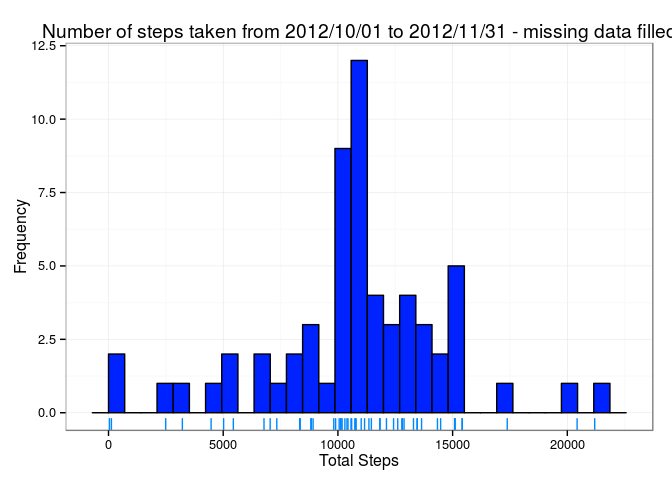
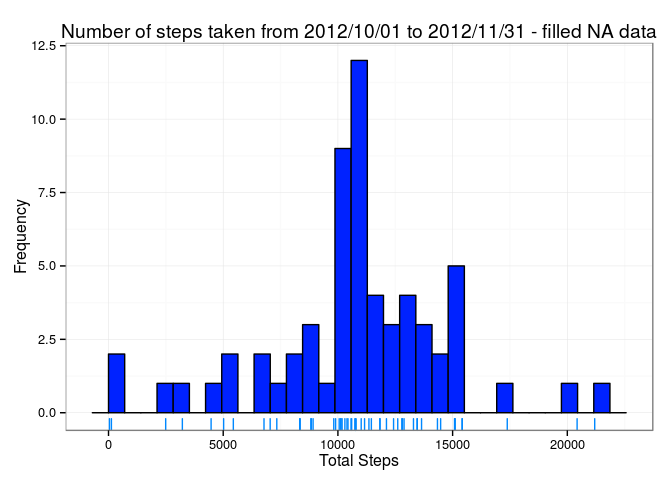
small change on title of filled data plot

Changed region(s): [[0.0625, 0.0312, 1.0, 0.0938]]

diff --git a/PA1_template.html b/PA1_template.html
@@ -205,13 +205,13 @@ colPalette &lt;- rainbow(45)
 g3 &lt;- ggplot(daily_total_steps_filled, aes(total_steps)) 
 g3 &lt;- g3 + geom_histogram(col = 'black', fill = colPalette[30]) # colors with blue
 g3 &lt;- g3 + labs(x = 'Total Steps', y = 'Frequency')
-g3 &lt;- g3 + labs(title = 'Number of steps taken from 2012/10/01 to 2012/11/31 - missing data filled')
+g3 &lt;- g3 + labs(title = 'Number of steps taken from 2012/10/01 to 2012/11/31 - filled NA data')
 g3 &lt;- g3 + geom_rug(col = colPalette[27])
 g3 &lt;- g3 + theme_bw(base_size = 12, base_family = 'sans')
 
 print(g3)</code></pre>
 <pre><code>## stat_bin: binwidth defaulted to range/30. Use 'binwidth = x' to adjust this.</code></pre>
[2 lines of base64/hex data omitted]
 <p>We see that the histogram is no longer skewed to the left - we recover a lot of missing data, and subsequently the peak shifts to the center of the plot.</p>
 <p>And the summary statistics, <code>mean</code> and <code>median</code> as well.</p>
 <pre class="r"><code>daily_total_steps_filled_summary &lt;- summary(daily_total_steps_filled$total_steps)
@@ -229,7 +229,7 @@ rownames(combined_table) &lt;- c('Daily Total Steps', 'Daily Total Steps (Filled
 xt &lt;- xtable(data.frame(combined_table[,3:4, drop=FALSE]), digits = 0)
 print.xtable(xt, type = 'html')</code></pre>
 <!-- html table generated in R 3.2.2 by xtable 1.8-0 package -->
-<!-- Fri Nov 13 00:15:06 2015 -->
+<!-- Fri Nov 13 00:16:30 2015 -->
 <table border="1">
 <tr>
 <th>

diff --git a/PA1_template.md b/PA1_template.md
@@ -214,7 +214,7 @@ colPalette <- rainbow(45)
 g3 <- ggplot(daily_total_steps_filled, aes(total_steps)) 
 g3 <- g3 + geom_histogram(col = 'black', fill = colPalette[30]) # colors with blue
 g3 <- g3 + labs(x = 'Total Steps', y = 'Frequency')
-g3 <- g3 + labs(title = 'Number of steps taken from 2012/10/01 to 2012/11/31 - missing data filled')
+g3 <- g3 + labs(title = 'Number of steps taken from 2012/10/01 to 2012/11/31 - filled NA data')
 g3 <- g3 + geom_rug(col = colPalette[27])
 g3 <- g3 + theme_bw(base_size = 12, base_family = 'sans')
 
@@ -258,7 +258,7 @@ print.xtable(xt, type = 'html')
 ```
 
 <!-- html table generated in R 3.2.2 by xtable 1.8-0 package -->
-<!-- Fri Nov 13 00:15:06 2015 -->
+<!-- Fri Nov 13 00:16:30 2015 -->
 <table border=1>
 <tr> <th>  </th> <th> Median </th> <th> Mean </th>  </tr>
   <tr> <td align="right"> Daily Total Steps </td> <td align="right"> 10400 </td> <td align="right"> 9354 </td> </tr>
